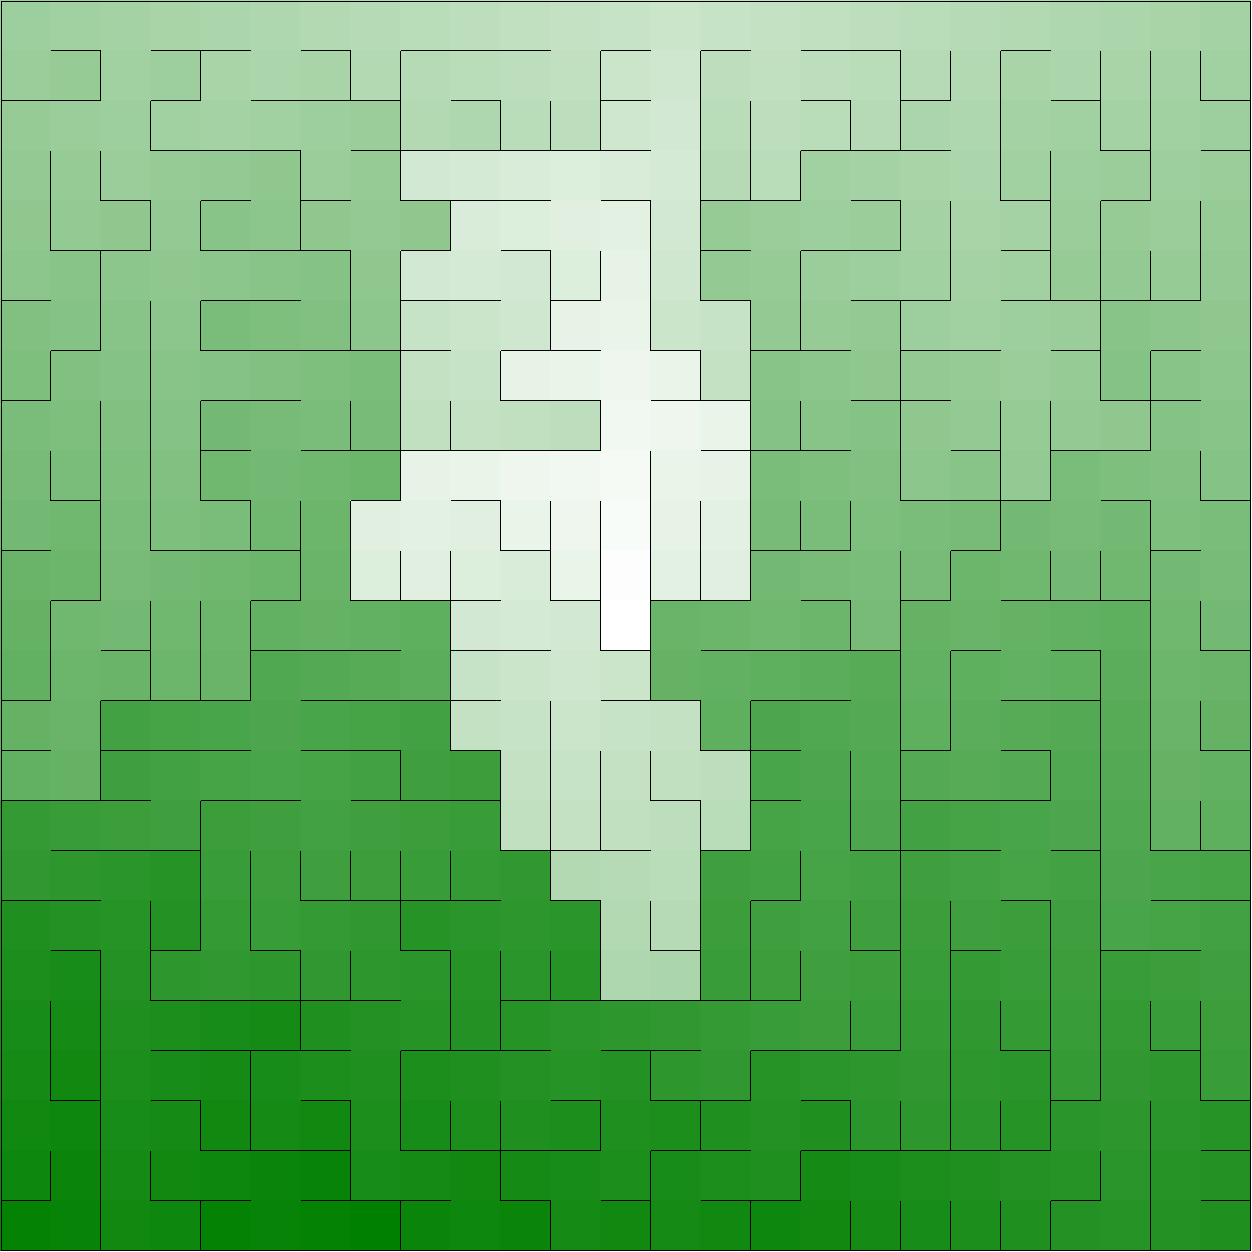
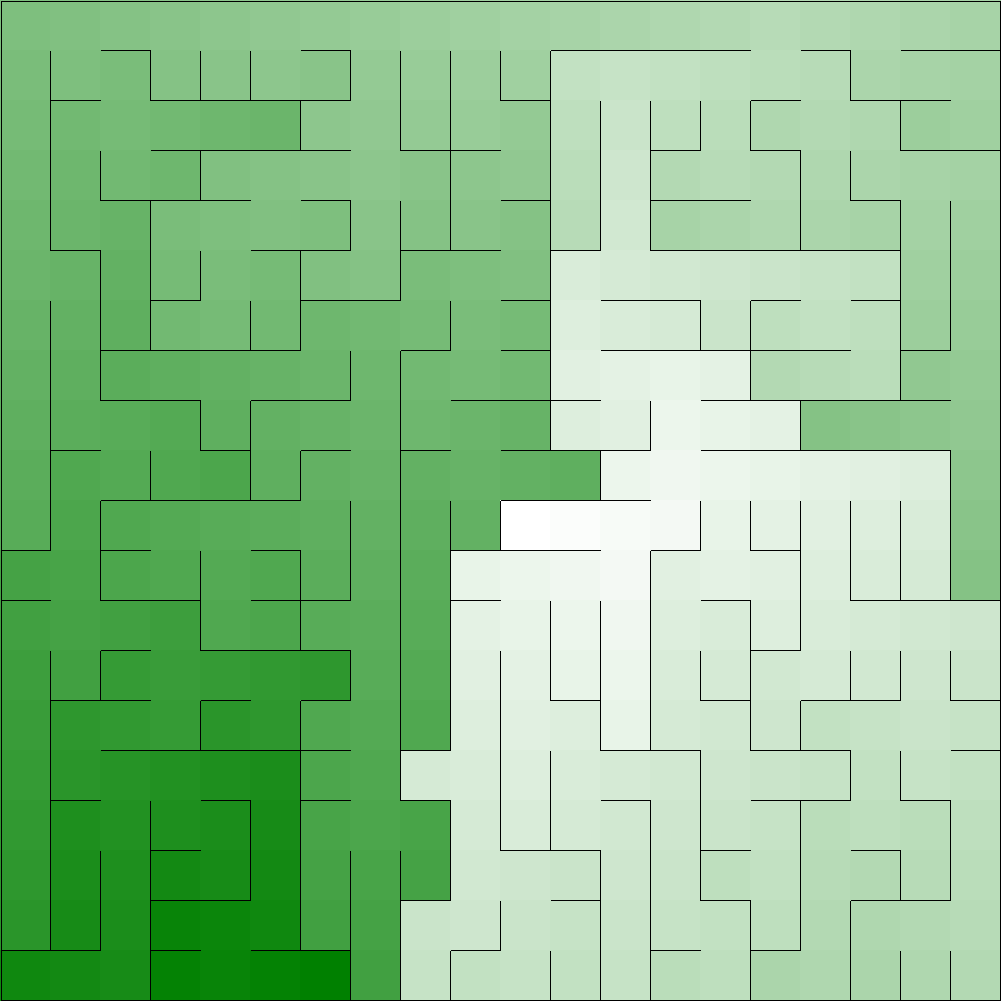
Render greyscale and colored images

diff --git a/core/src/grid.rs b/core/src/grid.rs
@@ -239,6 +239,7 @@ impl Grid {
         &self,
         cell_size: usize,
         solver: Option<&impl Solver>,
+        color: bool,
     ) -> (usize, usize, Vec<u8>) {
         let wall = Color::new(0, 0, 0, 255);
 
@@ -255,9 +256,13 @@ impl Grid {
         for cell in self {
             let cell_handle = cell.handle();
 
-            let background = solver
-                .map(|solver| solver.cell_background(cell_handle.row, cell_handle.col))
-                .unwrap_or_else(|| Color::WHITE);
+            let background = if color {
+                solver
+                    .map(|solver| solver.cell_background(cell_handle.row, cell_handle.col))
+                    .unwrap_or_else(|| Color::WHITE)
+            } else {
+                Color::WHITE
+            };
 
             let x1 = cell.col * cell_size;
             let y1 = cell.row * cell_size;
@@ -302,16 +307,17 @@ impl Grid {
         (width, height, data)
     }
 
-    pub(crate) fn save_png_internal(
+    fn save_png(
         &self,
         path: impl AsRef<Path>,
         cell_size: usize,
         solver: Option<&impl Solver>,
+        color: bool,
     ) -> io::Result<()> {
         let file = fs::File::create(path)?;
         let w = io::BufWriter::new(file);
 
-        let (width, height, data) = self.generate_image(cell_size, solver);
+        let (width, height, data) = self.generate_image(cell_size, solver, color);
 
         let mut encoder = png::Encoder::new(w, width as u32, height as u32);
         encoder.set_color(png::ColorType::Rgba);
@@ -320,6 +326,34 @@ impl Grid {
 
         //debug!("data size: {}", data.len());
         writer.write_image_data(&data)?;
+
+        Ok(())
+    }
+
+    pub(crate) fn save_png_internal(
+        &self,
+        path: impl AsRef<Path>,
+        cell_size: usize,
+        solver: Option<&impl Solver>,
+    ) -> io::Result<()> {
+        let path = path.as_ref();
+
+        // save in greyscale
+        self.save_png(path, cell_size, solver, false)?;
+
+        // get the file name but with _color appended
+        let mut color_filename = path.file_stem().unwrap().to_os_string();
+        color_filename.push("-colored");
+
+        // build the color file path
+        let mut color_path = path.to_owned();
+        color_path.set_file_name(&color_filename);
+        if let Some(extension) = path.extension() {
+            color_path.set_extension(extension);
+        }
+
+        // save in color
+        self.save_png(color_path, cell_size, solver, true)?;
 
         Ok(())
     }
